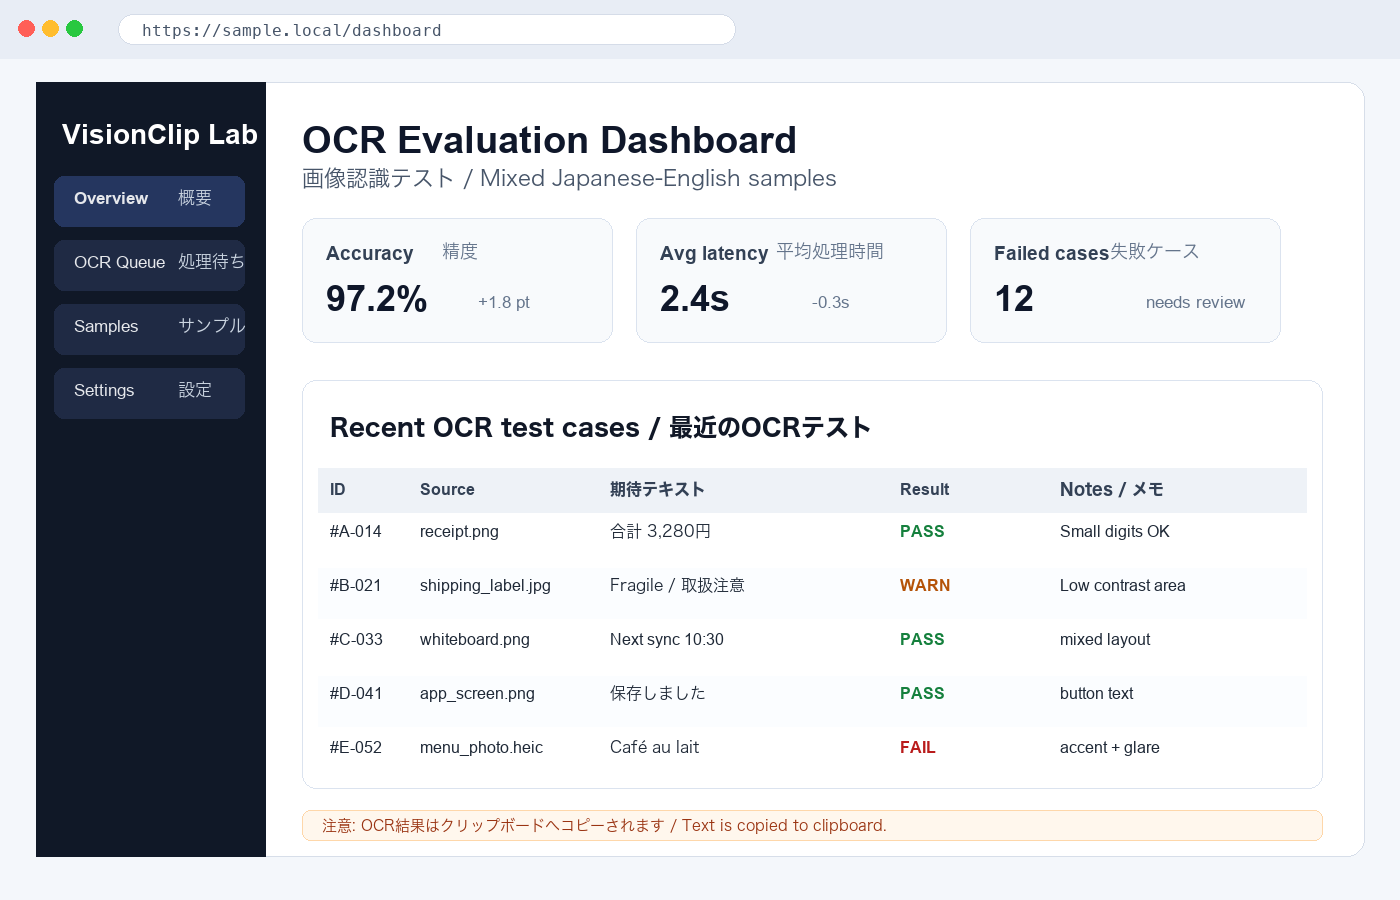
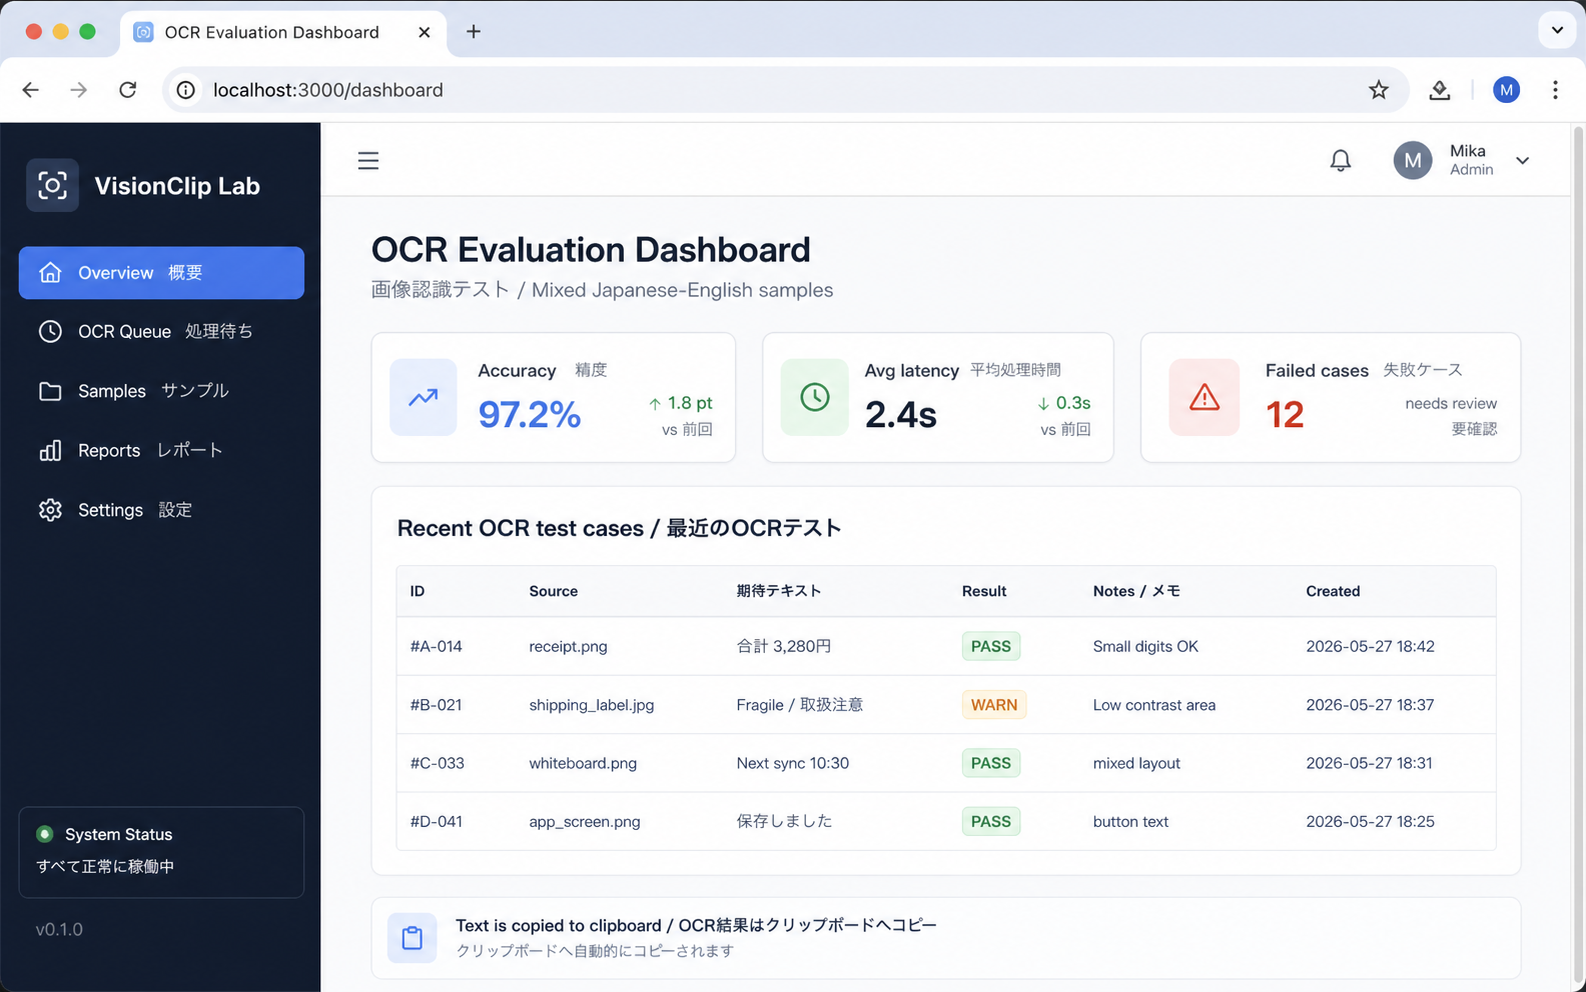
OCRサンプル画像を生成素材に差し替え

diff --git a/samples/README.md b/samples/README.md
@@ -1,6 +1,6 @@
 # OCR sample images
 
-VisionClipのOCR動作確認用サンプル画像です。日本語と英語がだいたい半々になるようにしつつ、読み順、小さい文字、表、ラベル、金額、日付、低コントラスト、手書き風フォントを混ぜています。
+VisionClipのOCR動作確認用サンプル画像です。自然な画面・紙・ホワイトボードに近い見た目の生成画像として、日本語と英語がだいたい半々になるようにしつつ、読み順、小さい文字、表、ラベル、金額、日付、低コントラスト、手書き風フォントを混ぜています。
 
 ## Files
 